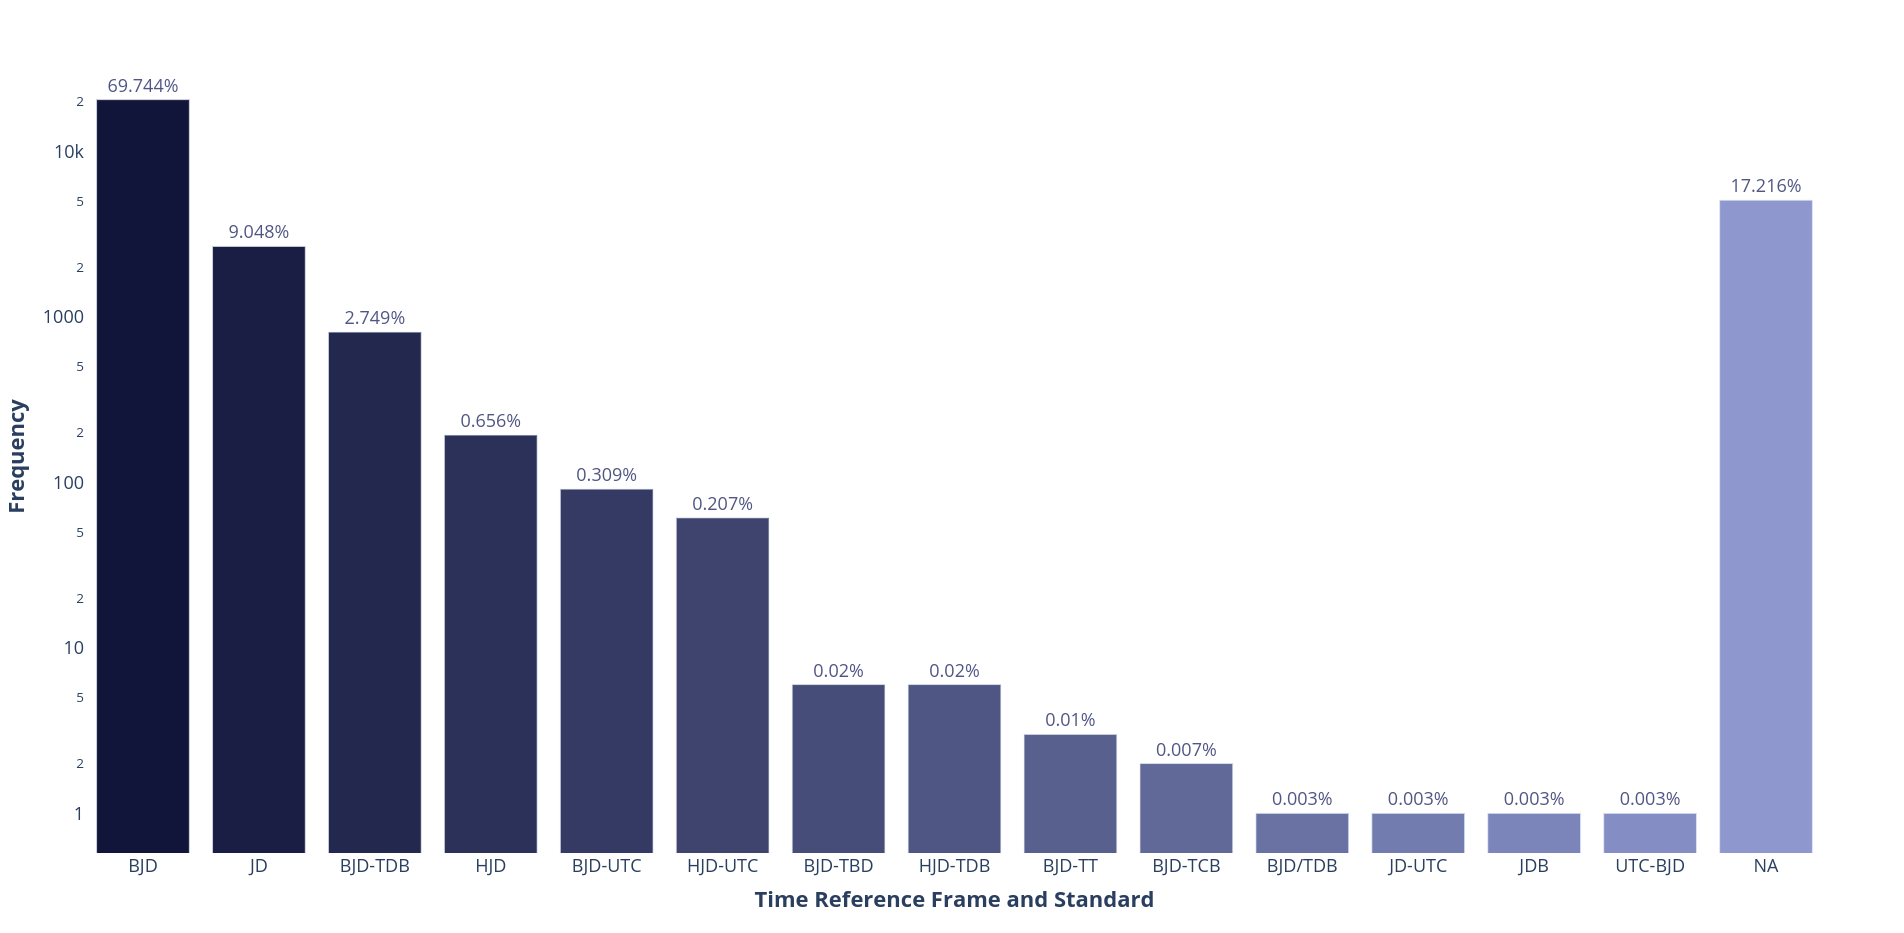
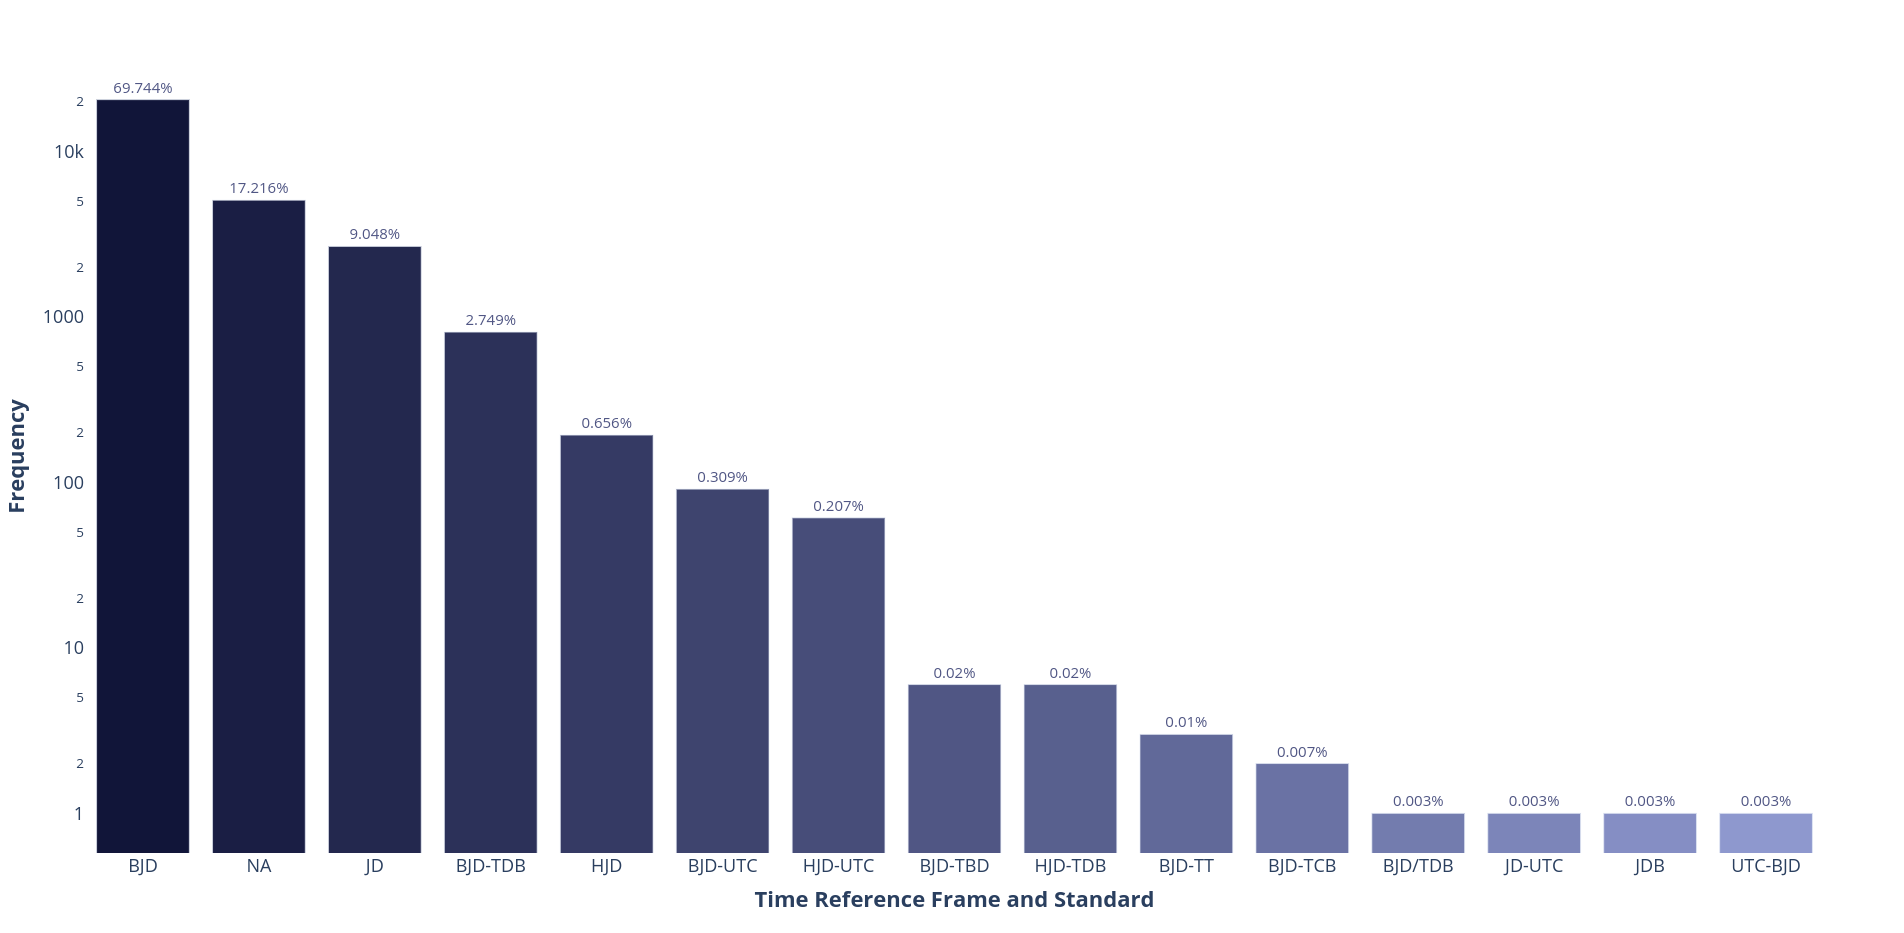
barplot and pareto finished

diff --git a/Plot_types/Barplot_Pareto/Barplot_Pareto_Python_matplotlib.py b/Plot_types/Barplot_Pareto/Barplot_Pareto_Python_matplotlib.py
@@ -1,7 +1,6 @@
 
 # Paths:
 path_data = "data/"
-path_plot = "Plot_types/Barplot/"
 
 # Packages:
 import numpy as np
@@ -28,13 +27,11 @@ cat_var_name = df_varnames.loc[(df_varnames["var"] == cat_var), ["var_name"]].va
 df_plot = df.groupby(by = cat_var)[cat_var].agg("count")
 levels = df_plot.index.tolist()
 df_plot = pd.DataFrame({"level": levels,
-                        "freq": df_plot.values.tolist()}).sort_values("freq",
-                                                                      ascending = False)
+                        "freq": df_plot.values.tolist()})
 
 # Deal with nan:
 df_plot = df_plot.append(pd.DataFrame({"level": ["NA"],
-                                       "freq": df[cat_var].isna().sum()}),
-                         sort = False)
+                                       "freq": df[cat_var].isna().sum()})).sort_values("freq", ascending = False)
 df_plot = df_plot.copy().reset_index(drop = True)
 
 # Relative frequency:
@@ -77,14 +74,14 @@ _ = ax2.plot(
 _ = ax2.scatter(
     x = df_plot["level"].tolist(),
     y = df_plot["freq_rel_cum"].tolist(),
-    color = "#AC0D09"
+    color = "#FF7000"
 )
 for i, j in zip(df_plot["level"], df_plot["freq_rel_cum"]):
     ax2.annotate(
         text = str(j) + "%",
         xy = (i, j - 1),
         ha = "center",
-        color = my_palette[n_levels//2],
+        color = "#FF7000",
         fontsize = 12
     )
 _ = ax.set_yscale("log")
@@ -102,7 +99,7 @@ _ = ax.tick_params(axis = "y",
 _ = ax2.set_ylabel("Cumulative frequency (%)",
                    fontsize = 16)
 _ = ax2.tick_params(axis = "y", 
-                   which = "major", 
-                   labelsize = 16)
+                    which = "major", 
+                    labelsize = 16)
 
 

diff --git a/Plot_types/Barplot_Pareto/Barplot_Pareto_Python_plotly.py b/Plot_types/Barplot_Pareto/Barplot_Pareto_Python_plotly.py
@@ -1,7 +1,6 @@
 
 # Paths:
 path_data = "data/"
-path_plot = "Plot_types/Barplot/"
 
 # Packages:
 import numpy as np
@@ -33,8 +32,7 @@ df_plot = pd.DataFrame({"level": levels,
 
 # Deal with nan:
 df_plot = df_plot.append(pd.DataFrame({"level": ["NA"],
-                                       "freq": df[cat_var].isna().sum()}),
-                         sort = False)
+                                       "freq": df[cat_var].isna().sum()})).sort_values("freq", ascending = False)
 df_plot = df_plot.copy().reset_index(drop = True)
 
 # Relative frequency:
@@ -49,7 +47,6 @@ df_plot["freq_rel_cum_char"] = [str(i) + "%" for i in df_plot["freq_rel_cum"]]
 n_levels = df_plot.shape[0]
 cmap = LinearSegmentedColormap.from_list("my_palette", ["#111539", "#97A1D9"])
 my_palette = [to_hex(j) for j in  [cmap(i/n_levels) for i in np.array(range(n_levels))]]
-
 fig = make_subplots(specs = [[{"secondary_y": True}]])
 fig.add_trace(
     go.Bar(
@@ -75,12 +72,15 @@ fig.add_trace(
         x = df_plot["level"],
         y = df_plot["freq_rel_cum"],
         mode = "lines+markers+text",
+        marker = dict(
+            color = "#FF7000"
+        ),
         text = df_plot["freq_rel_cum_char"],
         textposition = "bottom center",
         textfont = dict(
             family = "sans serif",
             size = 14,
-            color = my_palette[n_levels - 2]
+            color = "#FF7000"
         ),
         hovertemplate = "<b>Cumulative frequency: %{y:,}%</b><extra></extra>"
     ),

diff --git a/Plot_types/Barplot_Grouped/Barplot_Grouped_Python_matplotlib.py b/Plot_types/Barplot_Grouped/Barplot_Grouped_Python_matplotlib.py
@@ -1,0 +1,43 @@
+
+# Paths:
+path_data = "data/"
+path_plot = "Plot_types/Barplot/"
+
+# Packages:
+import numpy as np
+import pandas as pd
+import matplotlib.pyplot as plt
+from matplotlib.colors import LinearSegmentedColormap, Normalize
+from matplotlib.colorbar import ColorbarBase
+import matplotlib.gridspec as gridspec
+
+# Display options:
+pd.set_option("display.width", 1200)
+pd.set_option("display.max_columns", 300)
+pd.set_option("display.max_rows", 300)
+
+# Dataset:
+df = pd.read_csv(path_data + "nasa_exoplanets.csv")
+df_varnames = pd.read_csv(path_data + "nasa_exoplanets_var_names.csv")
+
+# Variables:
+cat_var = "pl_tsystemref"
+cat_var_name = df_varnames.loc[(df_varnames["var"] == cat_var), ["var_name"]].values[0][0]
+
+# Adapt the data:
+df_plot = df.groupby(by = cat_var)[cat_var].agg("count")
+levels = df_plot.index.tolist()
+df_plot = pd.DataFrame({"level": levels,
+                        "freq": df_plot.values.tolist()}).sort_values("freq",
+                                                                      ascending = False)
+
+# Deal with nan:
+df_plot = df_plot.append(pd.DataFrame({"level": ["NA"],
+                                       "freq": df[cat_var].isna().sum()})).sort_values("freq", ascending = False)
+df_plot = df_plot.copy().reset_index(drop = True)
+
+# Relative frequency:
+df_plot["freq_rel"] = [round(i/sum(df_plot["freq"])*100, 3) for i in df_plot["freq"]]
+df_plot["freq_rel_char"] = [str(i) + "%" for i in df_plot["freq_rel"]]
+
+

diff --git a/Plot_types/Barplot_Pareto/Barplot_Pareto_Python_seaborn.py b/Plot_types/Barplot_Pareto/Barplot_Pareto_Python_seaborn.py
@@ -1,7 +1,6 @@
 
 # Paths:
 path_data = "data/"
-path_plot = "Plot_types/Barplot/"
 
 # Packages:
 import numpy as np
@@ -32,8 +31,7 @@ df_plot = pd.DataFrame({"level": levels,
 
 # Deal with nan:
 df_plot = df_plot.append(pd.DataFrame({"level": ["NA"],
-                                       "freq": df[cat_var].isna().sum()}),
-                         sort = False)
+                                       "freq": df[cat_var].isna().sum()})).sort_values("freq", ascending = False)
 df_plot = df_plot.copy().reset_index(drop = True)
 
 # Relative frequency:
@@ -79,14 +77,14 @@ _ = ax2.plot(
 _ = ax2.scatter(
     x = df_plot["level"].tolist(),
     y = df_plot["freq_rel_cum"].tolist(),
-    color = "#AC0D09"
+    color = "#FF7000"
 )
 for i, j in zip(df_plot["level"], df_plot["freq_rel_cum"]):
     ax2.annotate(
         text = str(j) + "%",
         xy = (i, j - 1),
         ha = "center",
-        color = my_palette[n_levels//8],
+        color = "#FF7000",
         fontsize = 12
     )
 _ = ax.set_yscale("log")

diff --git a/Plot_types/Barplot/Barplot_Python_matplotlib.py b/Plot_types/Barplot/Barplot_Python_matplotlib.py
@@ -1,7 +1,6 @@
 
 # Paths:
 path_data = "data/"
-path_plot = "Plot_types/Barplot/"
 
 # Packages:
 import numpy as np
@@ -33,8 +32,7 @@ df_plot = pd.DataFrame({"level": levels,
 
 # Deal with nan:
 df_plot = df_plot.append(pd.DataFrame({"level": ["NA"],
-                                       "freq": df[cat_var].isna().sum()}),
-                         sort = False)
+                                       "freq": df[cat_var].isna().sum()})).sort_values("freq", ascending = False)
 df_plot = df_plot.copy().reset_index(drop = True)
 
 # Relative frequency:

diff --git a/Plot_types/Barplot/Barplot_Python_plotly.py b/Plot_types/Barplot/Barplot_Python_plotly.py
@@ -1,7 +1,6 @@
 
 # Paths:
 path_data = "data/"
-path_plot = "Plot_types/Barplot/"
 
 # Packages:
 import numpy as np
@@ -31,8 +30,7 @@ df_plot = pd.DataFrame({"level": levels,
 
 # Deal with nan:
 df_plot = df_plot.append(pd.DataFrame({"level": ["NA"],
-                                       "freq": df[cat_var].isna().sum()}),
-                        sort = False)
+                                       "freq": df[cat_var].isna().sum()})).sort_values("freq", ascending = False)
 df_plot = df_plot.copy().reset_index(drop = True)
 
 # Relative frequency:

diff --git a/Plot_types/Barplot/Barplot_Python_seaborn.py b/Plot_types/Barplot/Barplot_Python_seaborn.py
@@ -1,7 +1,6 @@
 
 # Paths:
 path_data = "data/"
-path_plot = "Plot_types/Barplot/"
 
 # Packages:
 import numpy as np
@@ -32,8 +31,7 @@ df_plot = pd.DataFrame({"level": levels,
 
 # Deal with nan:
 df_plot = df_plot.append(pd.DataFrame({"level": ["NA"],
-                                       "freq": df[cat_var].isna().sum()}),
-                        sort = False)
+                                       "freq": df[cat_var].isna().sum()})).sort_values("freq", ascending = False)
 df_plot = df_plot.copy().reset_index(drop = True)
 
 # Relative frequency:
